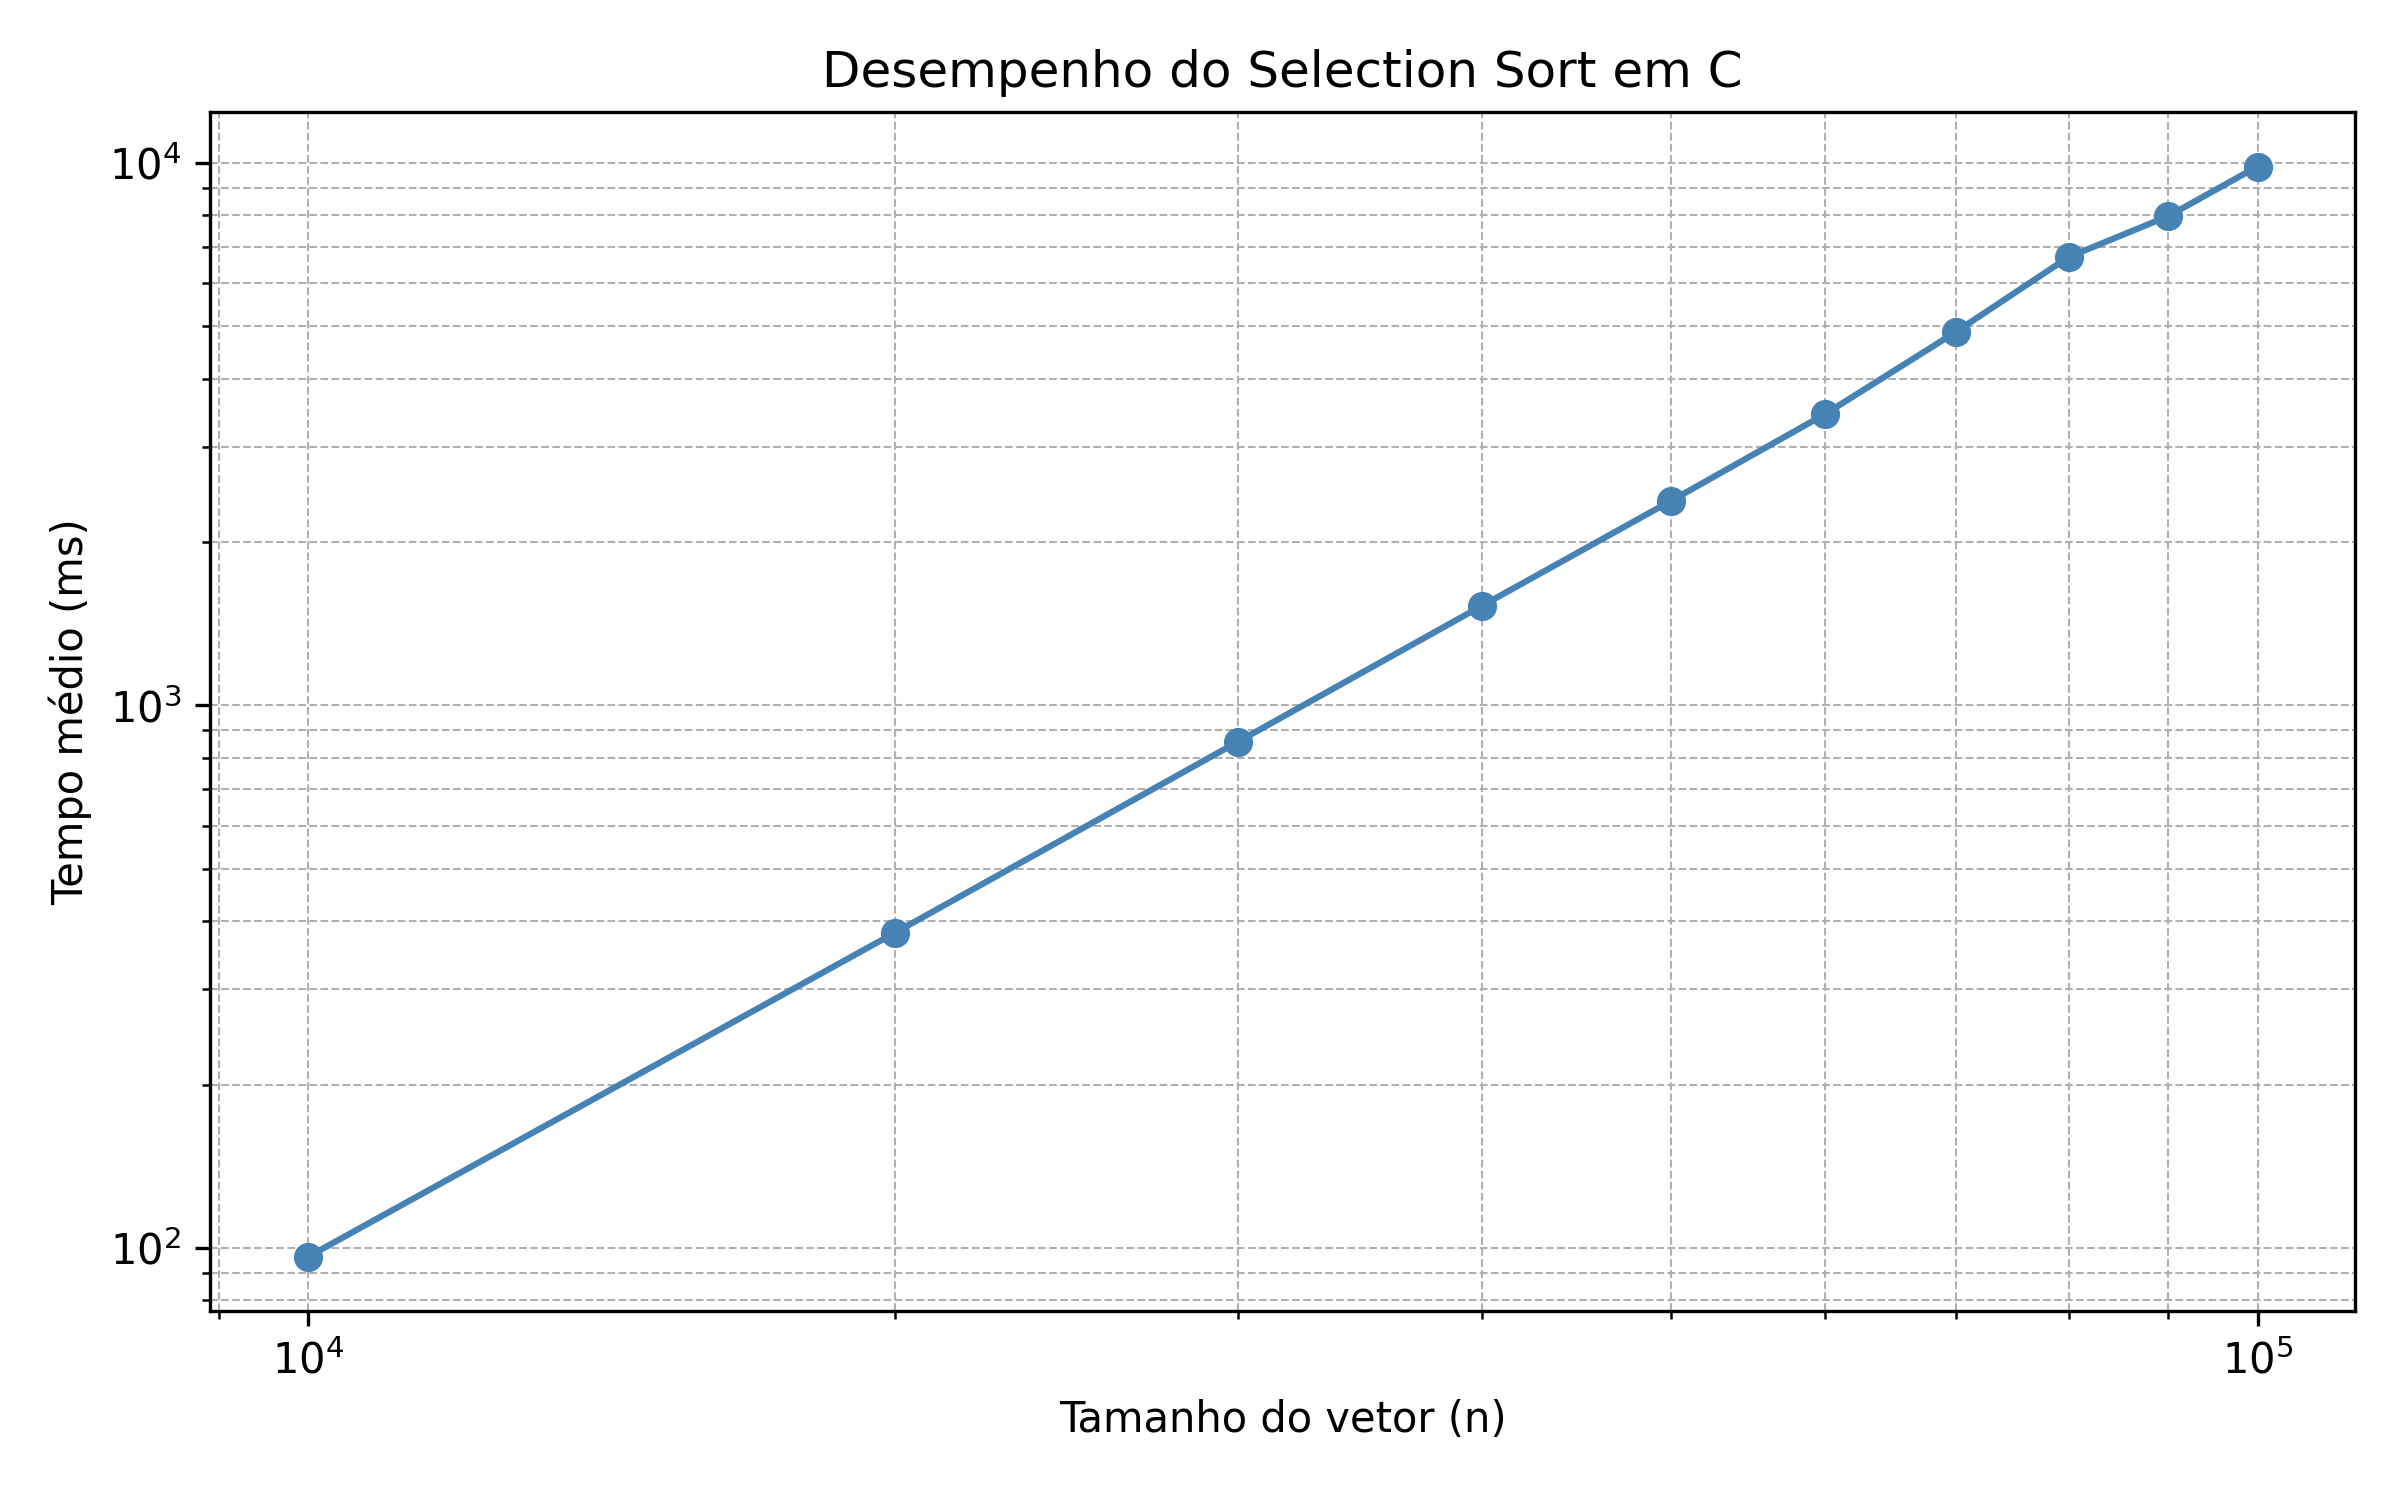
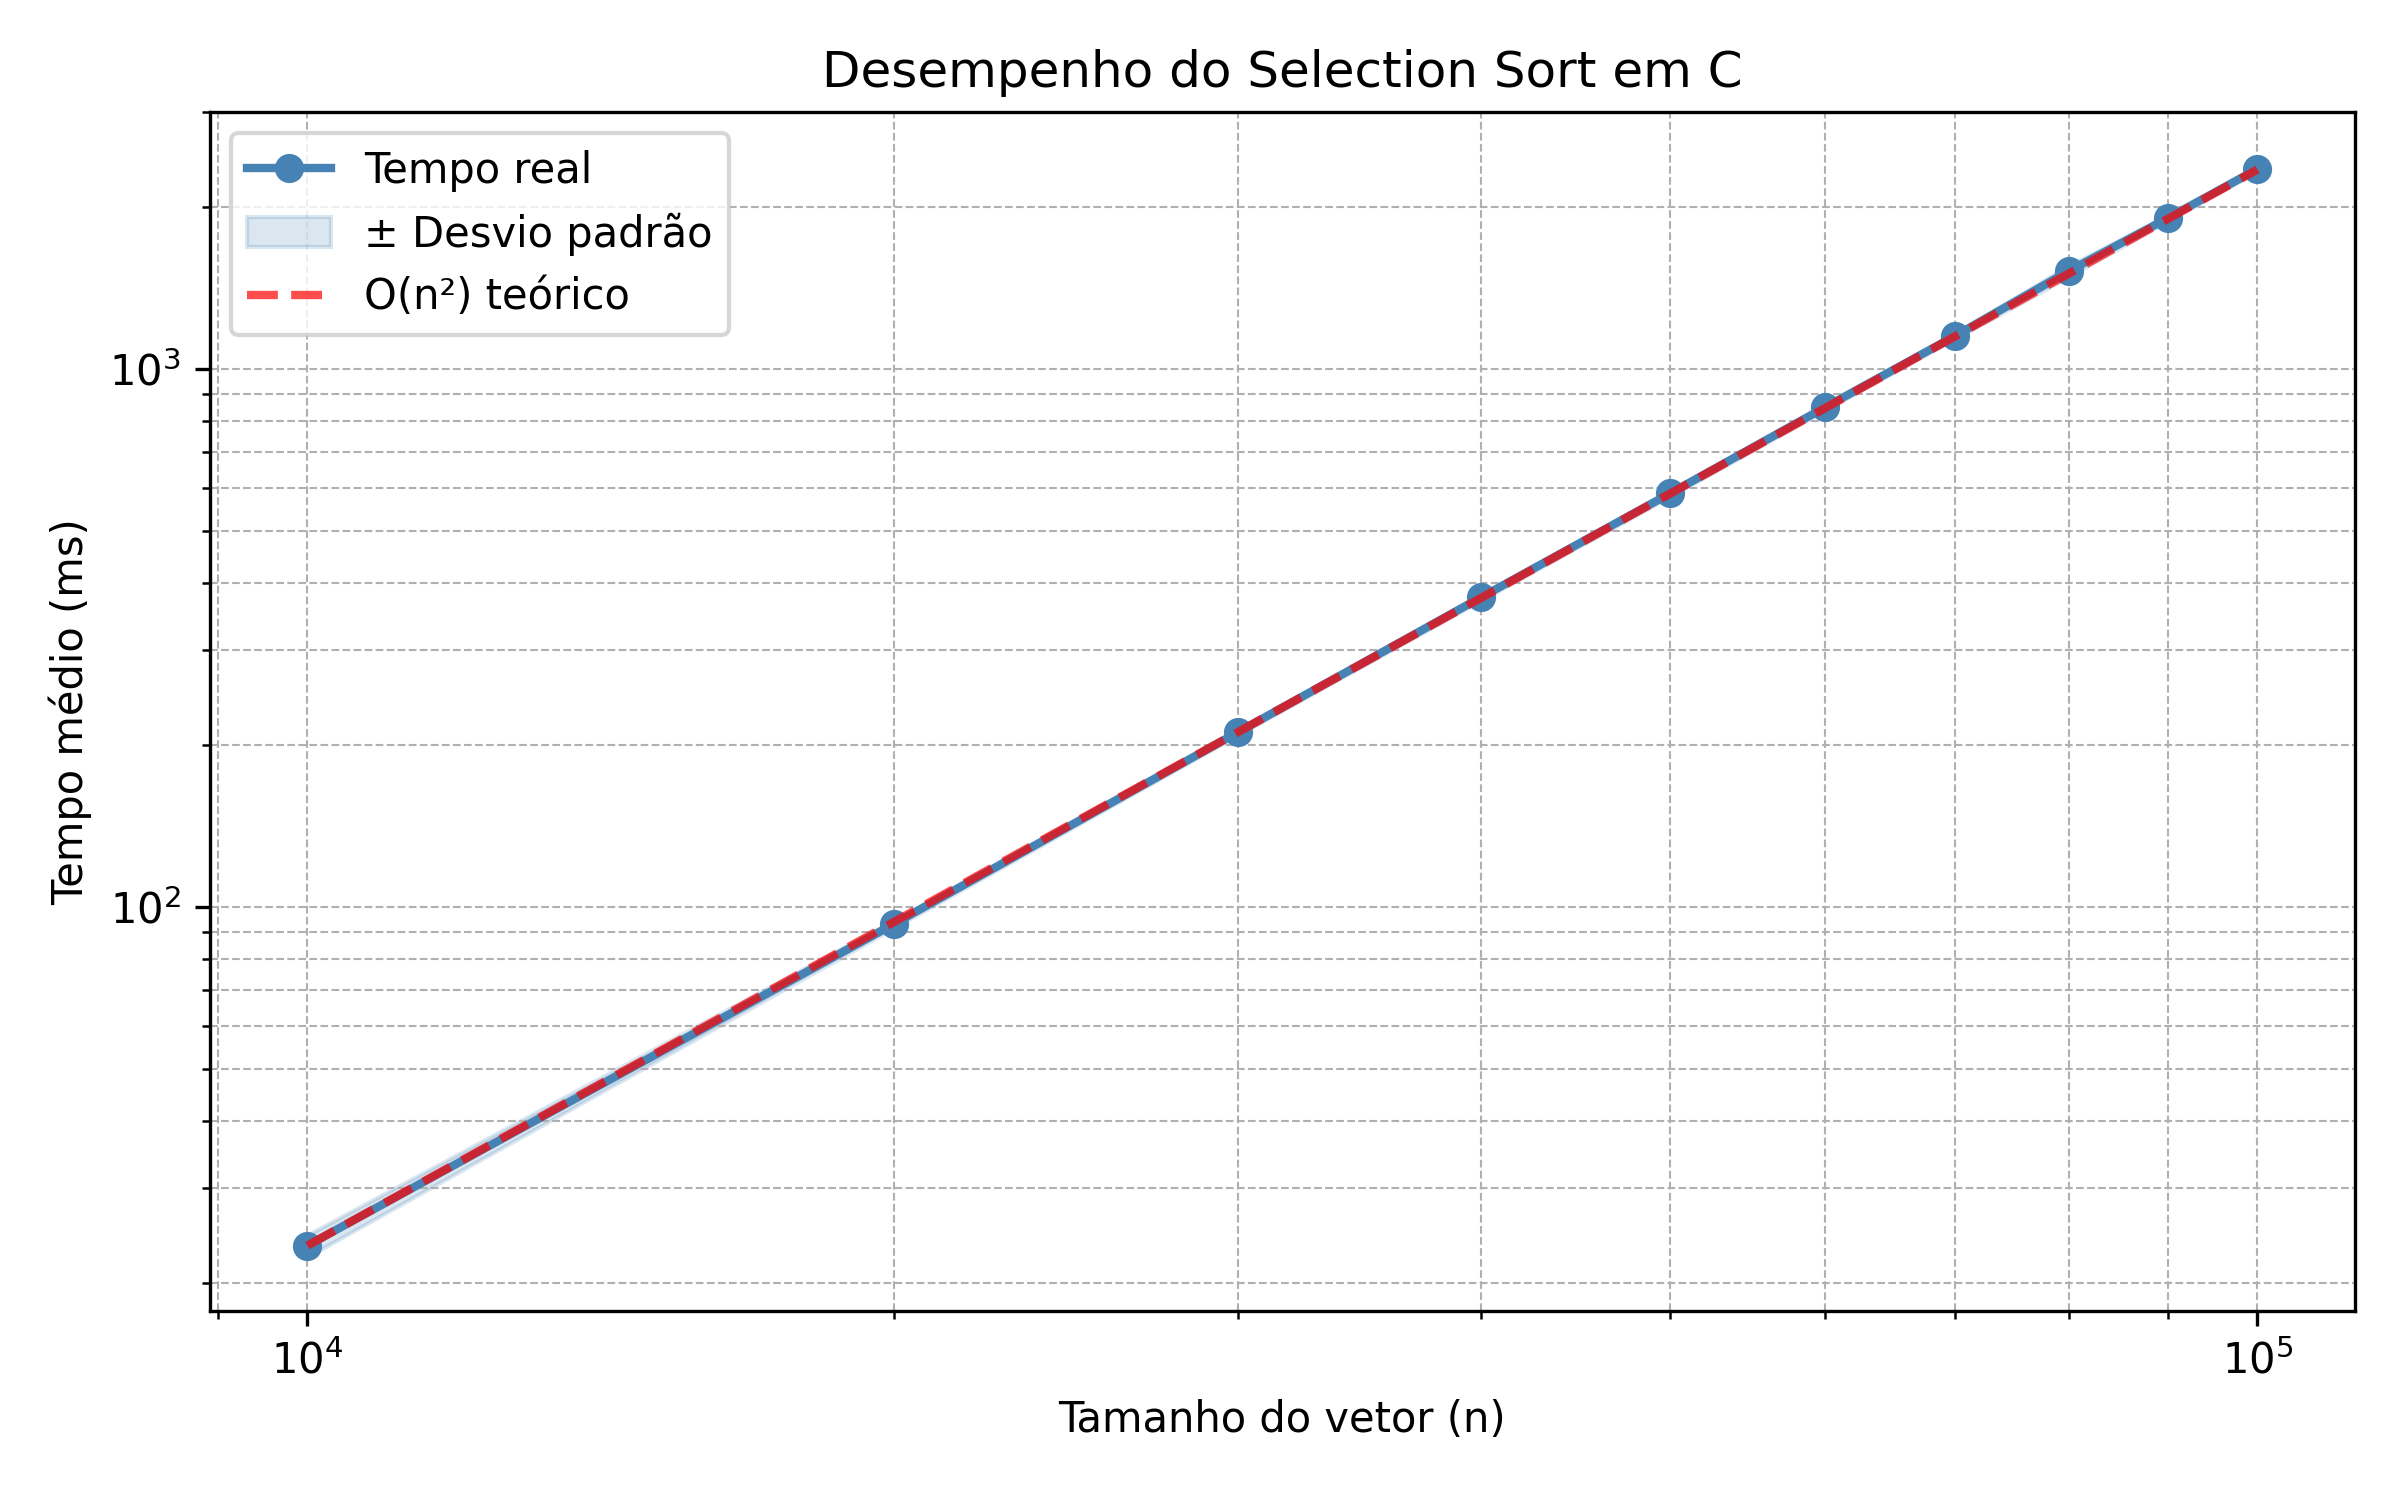
Enhance performance graphs: add standard deviation shading, theoretical O(n²) lines, and new growth ratio graph; update performance data in resultados_C.csv

diff --git a/codigo/python/gerar_graficos.py b/codigo/python/gerar_graficos.py
@@ -22,12 +22,30 @@ def carregar_dados(caminho_csv):
 def gerar_grafico(df, titulo, arquivo_saida):
     """Gera gráfico log-log de desempenho para uma linguagem."""
     plt.figure(figsize=(8, 5))
-    plt.plot(df["n"], df["tempo_ms"], marker='o', linestyle='-', color='steelblue')
+    
+    # Plota os dados reais
+    plt.plot(df["n"], df["tempo_ms"], marker='o', linestyle='-', color='steelblue', label='Tempo real', linewidth=2)
+    
+    # Adiciona sombra do desvio padrão
+    plt.fill_between(df["n"], 
+                     df["tempo_ms"] - df["desvio"], 
+                     df["tempo_ms"] + df["desvio"],
+                     alpha=0.2, color='steelblue', label='± Desvio padrão')
+    
+    # Adiciona linha de referência O(n²)
+    n_ref = df["n"].values
+    # Ajusta a constante para que a curva O(n²) fique visível no gráfico
+    # Usa o primeiro ponto para calibrar
+    c = df["tempo_ms"].iloc[0] / (n_ref[0] ** 2)
+    tempo_teorico = c * (n_ref ** 2)
+    plt.plot(n_ref, tempo_teorico, linestyle='--', color='red', alpha=0.7, linewidth=2, label='O(n²) teórico')
+    
     plt.xscale("log")
     plt.yscale("log")
     plt.title(titulo)
     plt.xlabel("Tamanho do vetor (n)")
     plt.ylabel("Tempo médio (ms)")
+    plt.legend()
     plt.grid(True, which="both", linestyle="--", linewidth=0.5)
     plt.tight_layout()
     plt.savefig(arquivo_saida, dpi=300)
@@ -36,9 +54,30 @@ def gerar_grafico(df, titulo, arquivo_saida):
 
 def gerar_comparativo(dados):
     """Gera um gráfico comparativo entre as três linguagens."""
-    plt.figure(figsize=(8, 5))
+    plt.figure(figsize=(10, 6))
+    
+    # Define cores para cada linguagem
+    cores = {'C': 'blue', 'Java': 'orange', 'Python': 'green'}
+    
+    # Plota dados de cada linguagem com sombra de desvio
     for nome, df in dados.items():
-        plt.plot(df["n"], df["tempo_ms"], marker='o', linestyle='-', label=nome)
+        cor = cores.get(nome, 'gray')
+        plt.plot(df["n"], df["tempo_ms"], marker='o', linestyle='-', color=cor, label=nome, linewidth=2)
+        
+        # Adiciona sombra do desvio padrão
+        plt.fill_between(df["n"], 
+                         df["tempo_ms"] - df["desvio"], 
+                         df["tempo_ms"] + df["desvio"],
+                         alpha=0.15, color=cor)
+    
+    # Adiciona linha de referência O(n²)
+    # Usa o primeiro dataset para calibrar a constante
+    primeiro_df = list(dados.values())[0]
+    n_ref = primeiro_df["n"].values
+    c = primeiro_df["tempo_ms"].iloc[0] / (n_ref[0] ** 2)
+    tempo_teorico = c * (n_ref ** 2)
+    plt.plot(n_ref, tempo_teorico, linestyle='--', color='black', alpha=0.5, linewidth=2, label='O(n²) referência')
+    
     plt.xscale("log")
     plt.yscale("log")
     plt.title("Comparativo de Desempenho - Selection Sort")
@@ -51,6 +90,54 @@ def gerar_comparativo(dados):
     plt.savefig(saida, dpi=300)
     plt.close()
     print(f"✅ Gráfico comparativo salvo em {saida}")
+
+def gerar_razao_crescimento(dados):
+    """Gera gráfico comparando razão de crescimento empírica vs teórica O(n²)."""
+    plt.figure(figsize=(10, 6))
+    
+    # Define cores para cada linguagem
+    cores = {'C': 'blue', 'Java': 'orange', 'Python': 'green'}
+    
+    # Para cada linguagem, calcula a razão de crescimento
+    for nome, df in dados.items():
+        if len(df) < 2:
+            continue
+            
+        cor = cores.get(nome, 'gray')
+        n_values = df["n"].values
+        tempo_values = df["tempo_ms"].values
+        
+        # Calcula razão de crescimento empírica: T(n) / T(n0)
+        # Normaliza pelo primeiro valor
+        n0 = n_values[0]
+        t0 = tempo_values[0]
+        razao_empirica = tempo_values / t0
+        
+        # Plota razão empírica
+        plt.plot(n_values, razao_empirica, marker='o', linestyle='-', 
+                color=cor, label=f'{nome} (empírico)', linewidth=2)
+    
+    # Calcula e plota razão teórica O(n²): (n/n0)²
+    primeiro_df = list(dados.values())[0]
+    n_values = primeiro_df["n"].values
+    n0 = n_values[0]
+    razao_teorica = (n_values / n0) ** 2
+    
+    plt.plot(n_values, razao_teorica, linestyle='--', color='black', 
+            alpha=0.7, linewidth=3, label='O(n²) teórico')
+    
+    plt.xscale("log")
+    plt.yscale("log")
+    plt.title("Validação Empírica da Complexidade O(n²)\nRazão de Crescimento: T(n)/T(n₀)")
+    plt.xlabel("Tamanho do vetor (n)")
+    plt.ylabel("Razão de crescimento (normalizado)")
+    plt.legend()
+    plt.grid(True, which="both", linestyle="--", linewidth=0.5)
+    plt.tight_layout()
+    saida = os.path.join(GRAF_DIR, "razao_crescimento_empirico_vs_teorico.png")
+    plt.savefig(saida, dpi=300)
+    plt.close()
+    print(f"✅ Gráfico de razão de crescimento salvo em {saida}")
 
 def main():
     arquivos = {
@@ -73,6 +160,9 @@ def main():
 
     if len(dados) >= 2:
         gerar_comparativo(dados)
+    
+    if len(dados) >= 1:
+        gerar_razao_crescimento(dados)
 
 if __name__ == "__main__":
     main()
